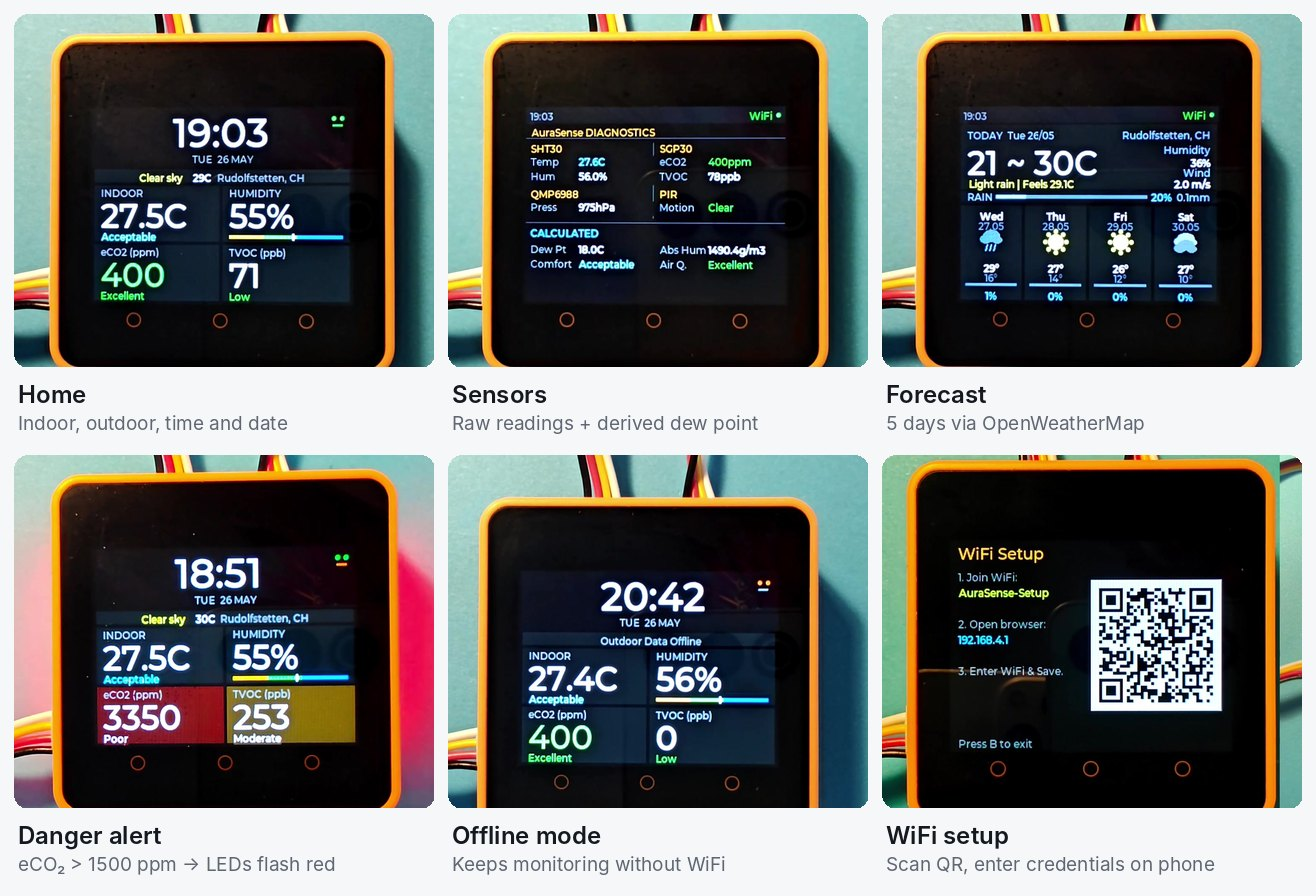
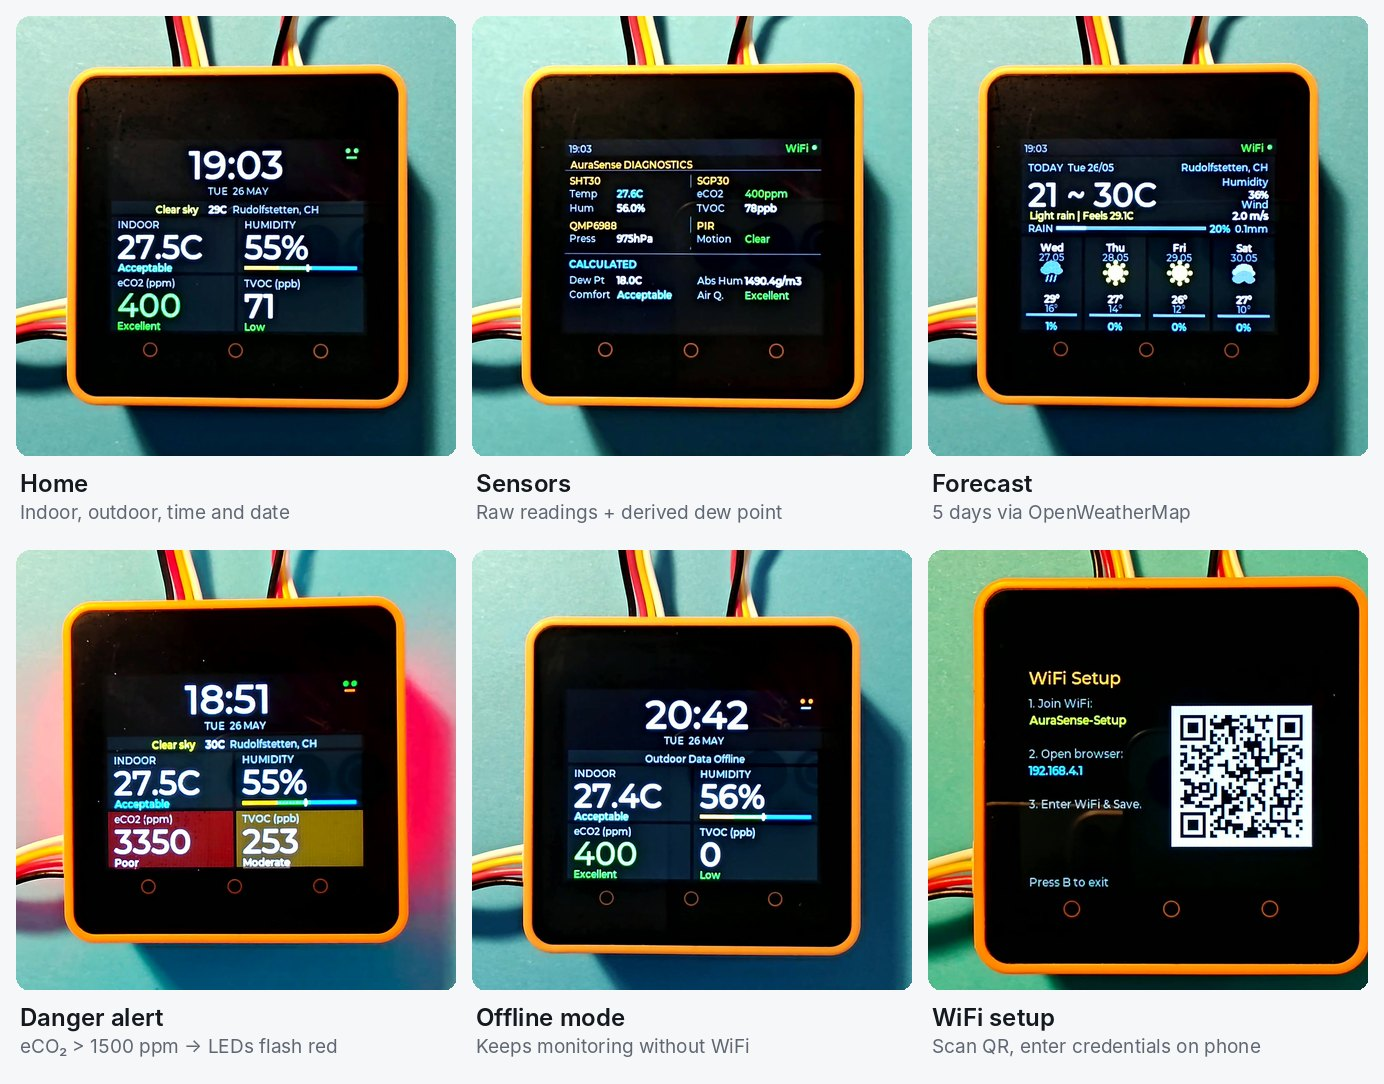
Product-style hardware image, full-device media in animated WebP
- hardware.jpg: real photo cut out onto a studio background with the
  device's own UI on the screen and a numbered spec legend
- social-preview.png for the GitHub repository card
- Animations re-cut as animated WebP with the whole device in frame
  (higher resolution and frame rate than the GIFs at a similar size)
- Device screens re-cropped to show all four edges
- Dashboard animation re-cut from the 1080p demo recording, without the
  browser bar (0.76 MB, previously a 1.7 MB 800 px GIF)
- README: acknowledgements section with the AI-assistance statement

Claude-Session: https://claude.ai/code/session_011PJihj477f4uH9JVPpPqsn

diff --git a/README.md b/README.md
@@ -9,7 +9,7 @@
 **See the air you breathe.** An end-to-end IoT system that measures indoor air quality on an ESP32 device, raises light and voice alerts when the air gets bad, answers spoken questions with an LLM, and keeps the history in the cloud for a web dashboard.
 
 <p align="center">
-  <img src="assets/demo-alert.gif" width="440" alt="The device detects a gas source: eCO2 jumps above 3,000 ppm, the reading turns red and the LED bar flashes red">
+  <img src="assets/demo-alert.webp" width="480" alt="The device detects a gas source: eCO2 jumps above 3,000 ppm, the reading turns red and the LED bar flashes red">
   <br><sub>Real device: a gas source near the sensor pushes eCO₂ above 3,000 ppm; the reading turns red and the LED bar flashes.</sub>
 </p>
 
@@ -36,12 +36,12 @@
 
 | Voice assistant | WiFi setup from a phone |
 |:---:|:---:|
-| <img src="assets/demo-voice.gif" width="300" alt="Holding button C records a question; the device uploads it and plays the answer"> | <img src="assets/demo-wifi-setup.gif" width="460" alt="Scanning the QR code, entering WiFi credentials on the phone, device reconnects"> |
+| <img src="assets/demo-voice.webp" width="320" alt="Holding button C records a question; the device uploads it and plays the answer"> | <img src="assets/demo-wifi-setup.webp" width="440" alt="Scanning the QR code, entering WiFi credentials on the phone, device reconnects"> |
 | Hold **C** to record → *Uploading…* → *Playing…* (sound in the video) | Scan the QR code, enter credentials, the device restarts and connects |
 
 ## The dashboard
 
-<p align="center"><img src="assets/dashboard-live.gif" width="800" alt="Streamlit dashboard of the deployed system with trends, daily extremes and a motion heatmap"></p>
+<p align="center"><img src="assets/dashboard-live.webp" width="860" alt="Streamlit dashboard of the deployed system with trends, daily extremes and a motion heatmap"></p>
 <p align="center"><sub>The deployed dashboard during the course (May 2026), showing a week of real readings.</sub></p>
 
 ## Architecture
@@ -110,10 +110,7 @@ Step-by-step instructions, routine tasks and a decommissioning checklist: [docs/
 
 ## Hardware
 
-<table>
-<tr>
-<td width="44%"><img src="assets/hardware.jpg" alt="Real photo of the M5Stack Core2 with the SGP30, ENV III and PIR sensor units"></td>
-<td>
+<p align="center"><img src="assets/hardware.jpg" width="900" alt="AuraSense hardware: M5Stack Core2 with SGP30, AS312 PIR and ENV III sensor units"></p>
 
 | Port | Unit | Measures |
 |------|------|----------|
@@ -125,13 +122,10 @@ Step-by-step instructions, routine tasks and a decommissioning checklist: [docs/
 
 | Alert | eCO₂ | TVOC | Humidity | LEDs |
 |---|---|---|---|---|
-| Warning | > 800 ppm | > 220 ppb | < 30 % / > 65 % | yellow |
-| Danger | > 1500 ppm | > 660 ppb | < 20 % / > 75 % | red + voice |
+| Warning | > 800 ppm | > 220 ppb | < 30 % or > 65 % | yellow, 500 ms flash |
+| Danger | > 1500 ppm | > 660 ppb | < 20 % or > 75 % | red, 250 ms flash + voice |
 
-Screen dims after 60 s and turns off after 120 s without motion; uploads every 30 s, every 5 s during an alert.
-</td>
-</tr>
-</table>
+The screen dims after 60 s and turns off after 120 s without motion. Readings are uploaded every 30 s, every 5 s during an alert.
 
 ## Engineering challenges
 
@@ -191,7 +185,13 @@ See [CHANGELOG.md](CHANGELOG.md). Known limitations, such as eCO₂ being an est
 | **Hang Yang** | v1: device firmware (sensors, LED alerts, screen management, voice assistant, WiFi resilience), Flask backend (API, Gemini, TTS, BigQuery, weather), Docker deployment on GCP. v2: all post-course changes listed above. |
 | **Yi Huang** | v1: Streamlit dashboard (real-time overview, sparklines, outdoor weather card, anomaly log, trend analysis, historical insights, AI advice, online/offline detection). |
 
-Built for *Cloud and Advanced Analytics*, University of Lausanne, 2026. v2 was developed with AI pair-programming assistance (Claude); see the commit trailers.
+Built for *Cloud and Advanced Analytics*, University of Lausanne, 2026.
+
+## Acknowledgements
+
+- Hardware provided by the course *Cloud and Advanced Analytics*, University of Lausanne.
+- Built on [UIFlow 2](https://uiflow2.m5stack.com/) and the M5Stack unit drivers, [Flask](https://flask.palletsprojects.com/), [Streamlit](https://streamlit.io/), [edge-tts](https://github.com/rany2/edge-tts), [OpenWeatherMap](https://openweathermap.org/) and [ip-api](https://ip-api.com/).
+- **AI assistance:** AI coding assistants were used during development — in v1 to help refactor the device and backend code, and in v2 as a pair programmer (Claude) for the security fixes, local demo, tests and documentation. Commits written with AI assistance carry a `Co-Authored-By` trailer.
 
 ## License
 
